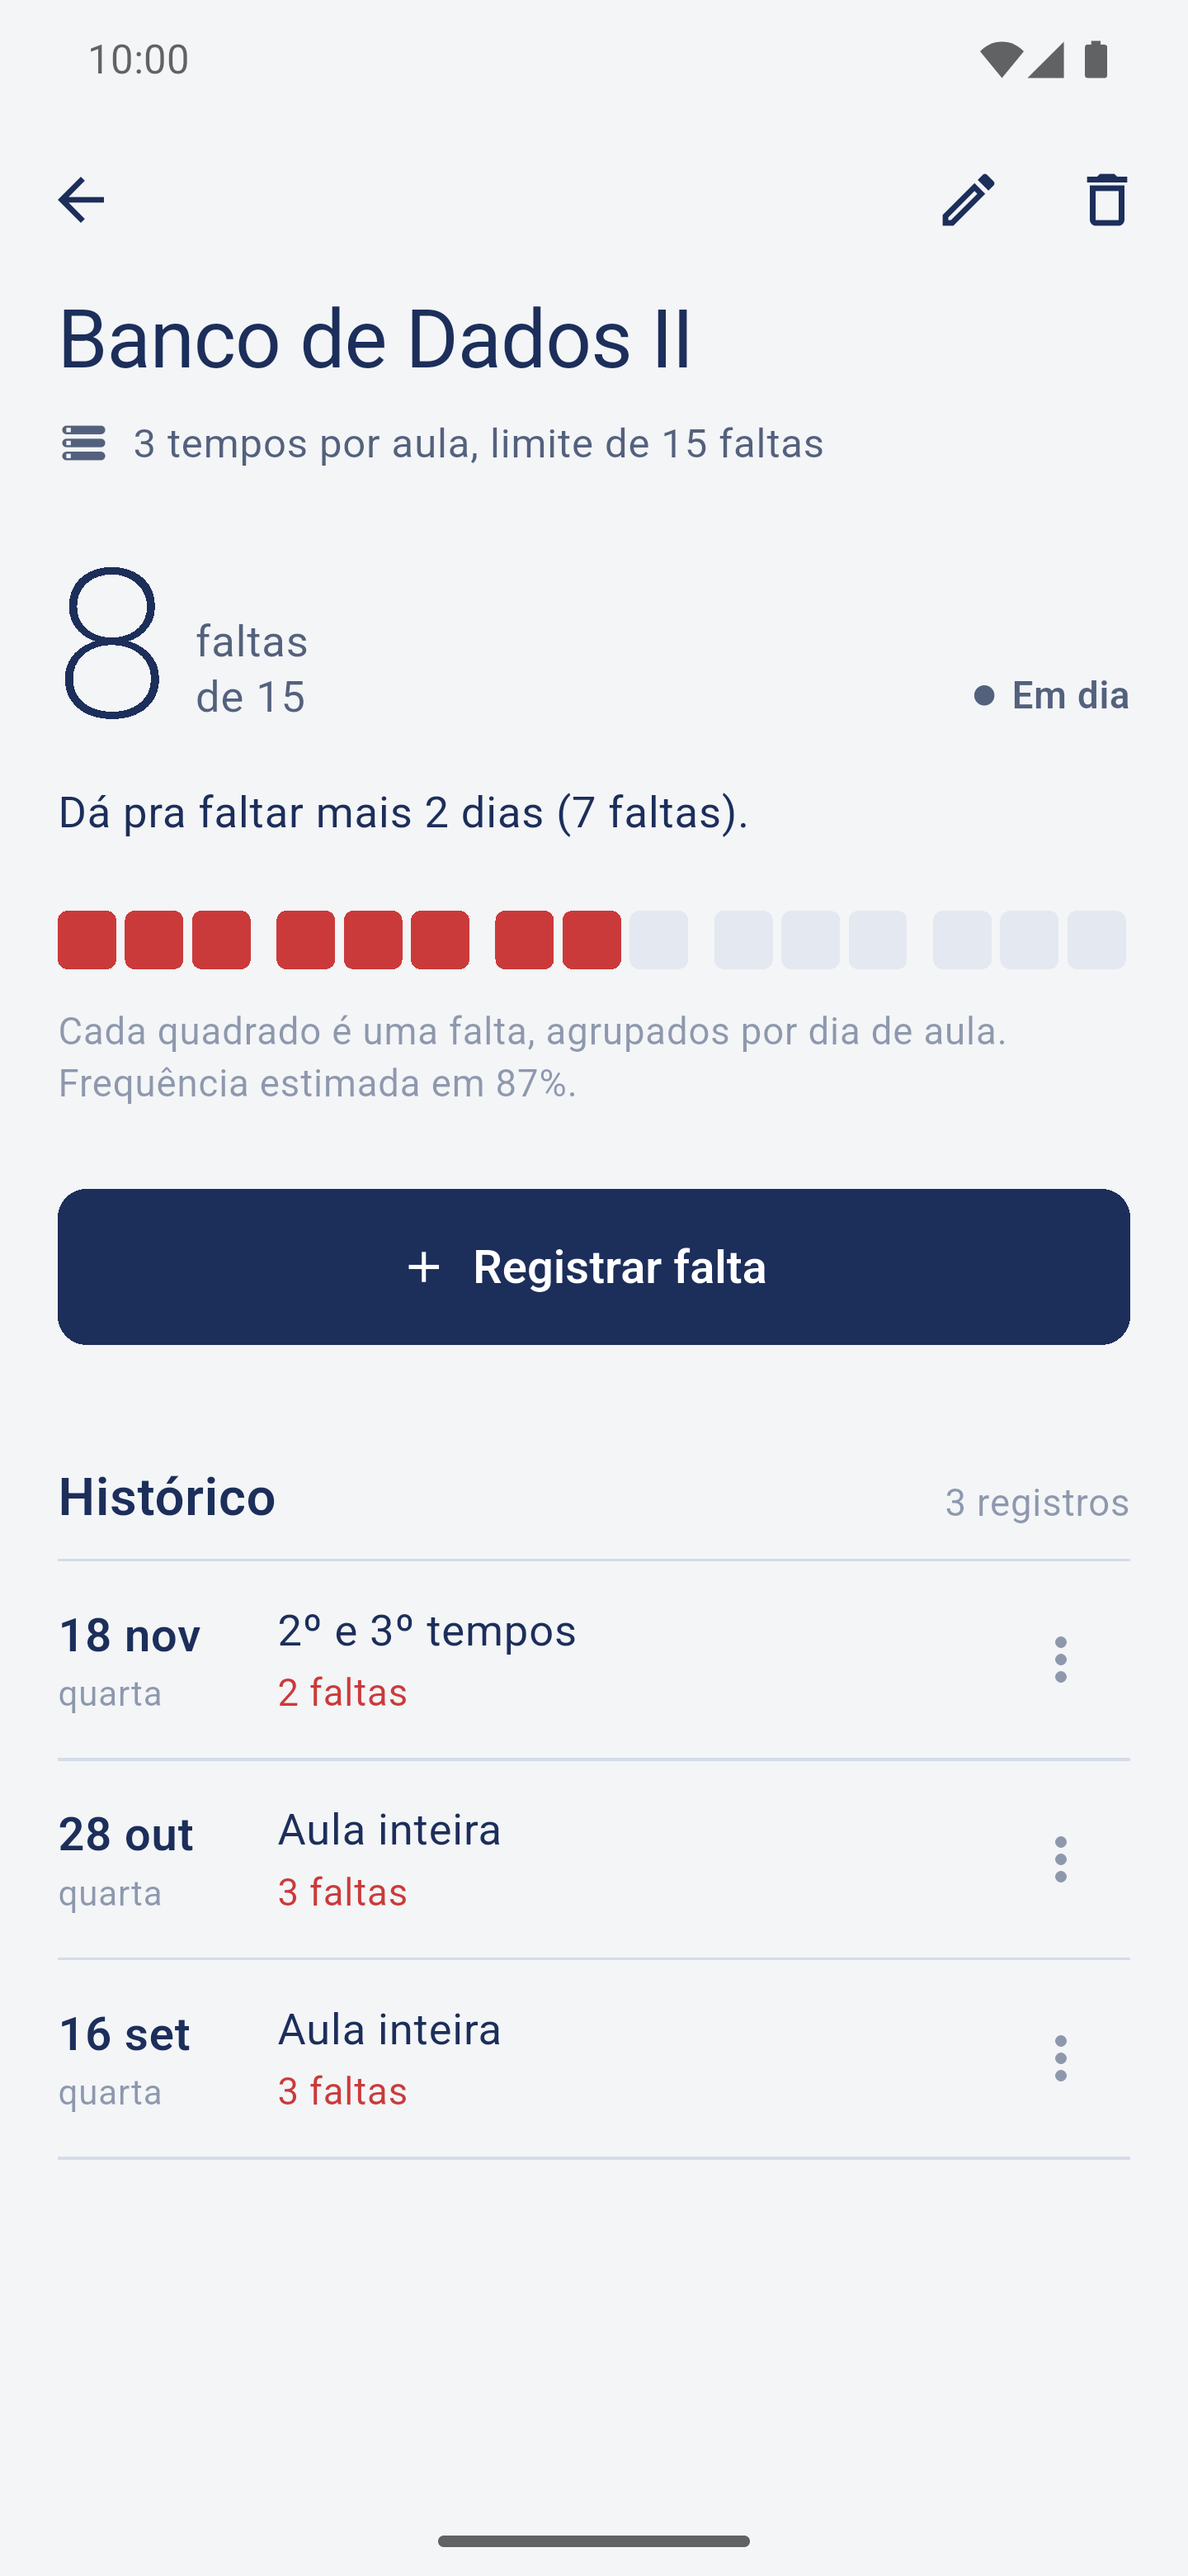
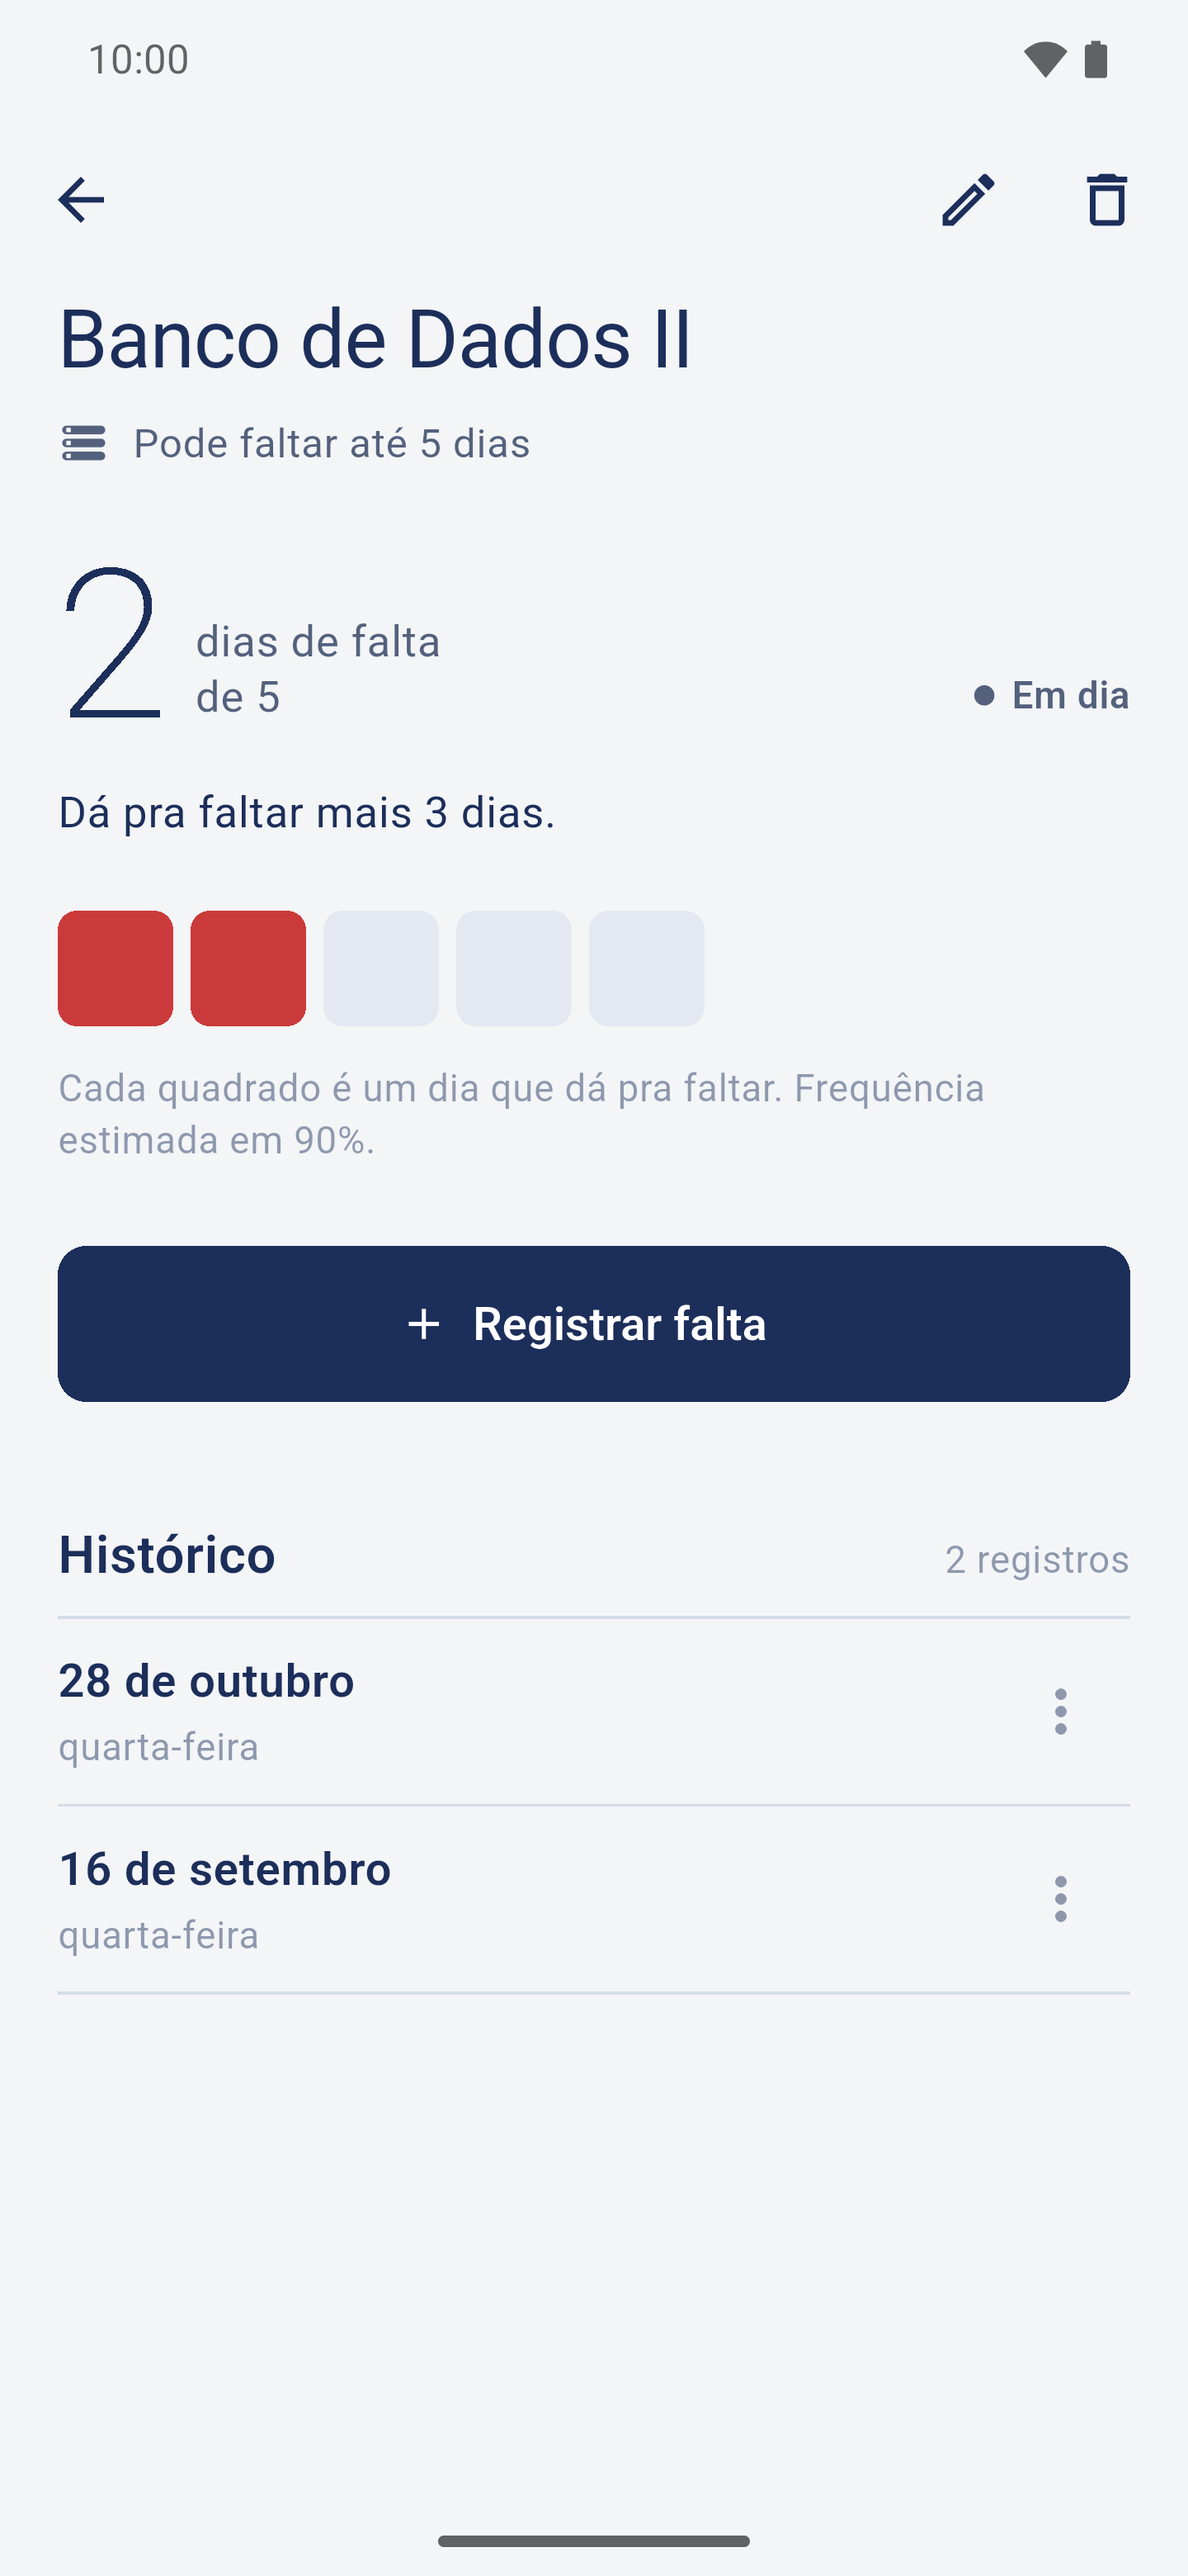
refaz os prints, atualiza README e sobe versão pra 1.2.0

diff --git a/README.md b/README.md
@@ -7,12 +7,12 @@ Funciona offline e não tem login. Os dados ficam só no celular.
 <p align="center">
   <img src="docs/screenshots/lista.png" alt="Lista de disciplinas com as faltas de cada uma" width="32%">
   <img src="docs/screenshots/detalhe.png" alt="Detalhe de uma disciplina com os dias de falta e o histórico" width="32%">
-  <img src="docs/screenshots/registrar.png" alt="Registro de falta" width="32%">
+  <img src="docs/screenshots/dias.png" alt="Calculando os dias a partir do limite em faltas do sistema" width="32%">
 </p>
 
 ## O que ele faz
 
-Você cadastra cada disciplina com quantos dias pode faltar no semestre. Quando faltar, abre a disciplina, toca em "Registrar falta" e confirma a data (já vem o dia de hoje). Na tela da disciplina aparece um quadrado por dia que dá pra faltar, e os que já foram usados ficam vermelhos. Quando passa de 70% do limite a disciplina fica amarela na lista, e quando estoura fica vermelha.
+Você cadastra cada disciplina com quantos dias pode faltar no semestre. Quando faltar, toca no +1 da disciplina na lista e a falta de hoje já fica registrada. Se for de outro dia, abre a disciplina e usa "Registrar falta", que deixa escolher a data. Na tela da disciplina aparece um quadrado por dia que dá pra faltar, e os que já foram usados ficam vermelhos. Quando passa de 70% do limite a disciplina fica amarela na lista, e quando estoura fica vermelha.
 
 Na minha faculdade o sistema mostra o limite em faltas por tempo de aula: Banco de Dados aparece como 0/15, mas como são 3 tempos por dia, na prática são 5 dias. Se for o seu caso, no cadastro tem um "Não sabe quantos dias?" que faz essa conta.
 
@@ -20,7 +20,7 @@ O ícone da disciplina é sugerido pelo nome enquanto você digita (Banco de Dad
 
 ## Instalar
 
-Baixe o `app-release.apk` na página de [releases](https://github.com/LuGoAn/frequencia-app/releases) direto pelo celular e abra. O Android vai pedir pra liberar a instalação de fontes desconhecidas.
+Baixe o `frequencia-x.y.z.apk` da última versão na página de [releases](https://github.com/LuGoAn/frequencia-app/releases) direto pelo celular e abra. O Android vai pedir pra liberar a instalação de fontes desconhecidas.
 
 ## Rodar o projeto
 
